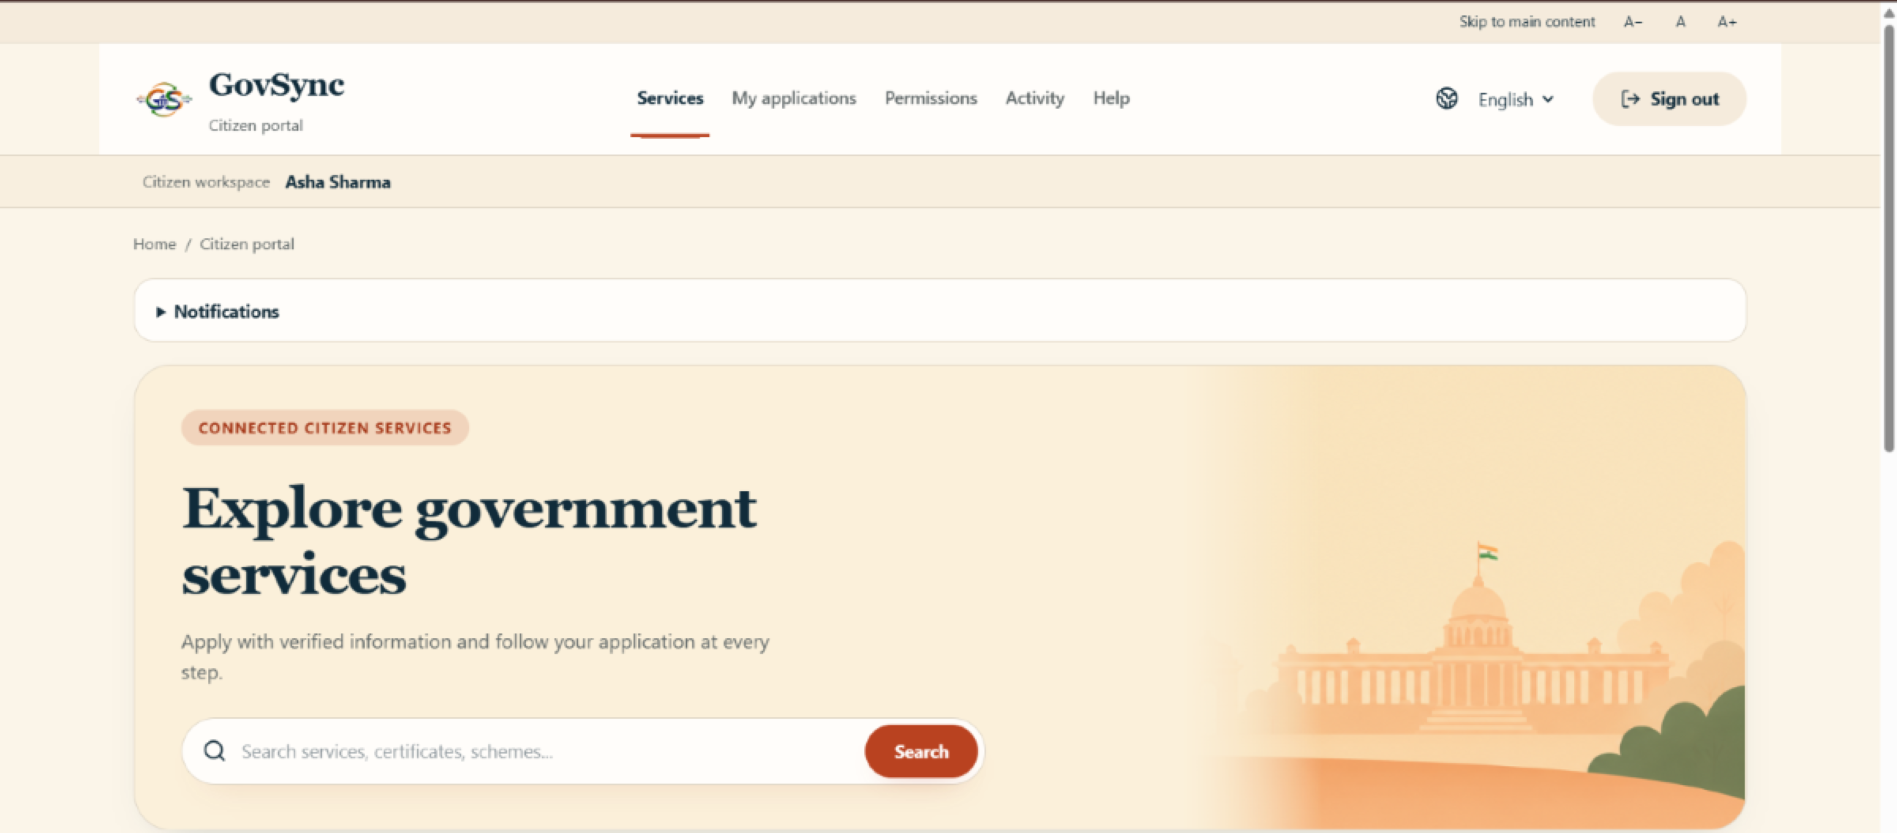
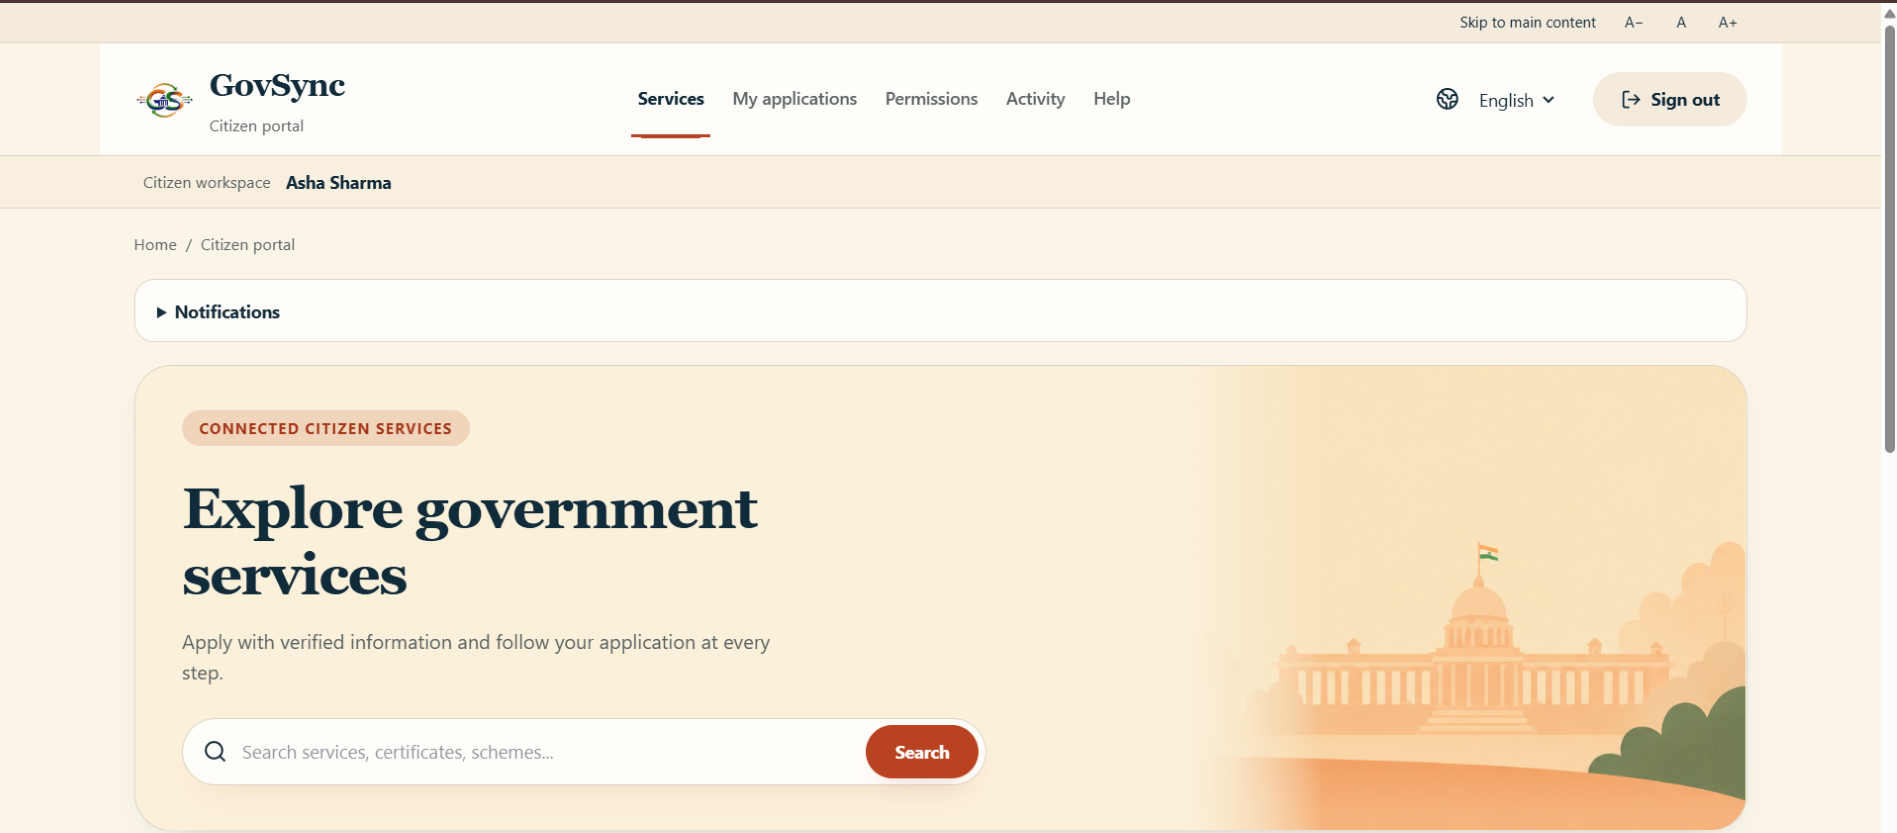
update 2nd project

diff --git a/02_project/Portfolio/public/landing-pages/kage.html b/02_project/Portfolio/public/landing-pages/kage.html
@@ -1361,7 +1361,7 @@ body[data-layout-footer="b"] .foot-base span:last-child{ text-align:right; }
     @media (max-width:560px) { .hero-side { display:none; } .portfolio-projects { grid-template-columns:1fr; } .brand-tx b { font-size:10px; letter-spacing:.15em; } }
   `;
   document.head.append(style);
-})({"name":"Aryan Maurya","wordmark":"ARYAN","title":"Computer Engineering student","studyYear":"Second year","college":"Atharva College of Engineering","branch":"Computer Engineering","heroLabel":"Second-year Computer Engineering student at Atharva College of Engineering","headline":["Engineer","in the","making."],"aboutHeading":"A curious mind. A world to build.","about":"I'm Aryan Maurya, a second-year Computer Engineering student at Atharva College of Engineering, interested in web development and cybersecurity.","aboutDetail":"I work with HTML, CSS and JavaScript, and I’m learning Python fundamentals through loops. This is a space for my learning, ideas and the projects I’ll share along the way.","facts":[{"value":"02","label":"Year of study"},{"value":"Web","label":"Development"},{"value":"Python","label":"Learning"},{"value":"Security","label":"An interest"}],"interests":[{"name":"Web development","tag":"BUILD","caption":"Interfaces, interactions and the web"},{"name":"Cybersecurity","tag":"EXPLORE","caption":"Curious about how systems stay secure"},{"name":"Python","tag":"LEARN","caption":"Building foundations, one loop at a time"}],"skillsHeading":"The tools. The practice. The next step.","skillsIntro":"My foundation is in HTML, CSS and JavaScript. I’m learning Python and exploring an interest in cybersecurity. There’s always more to understand.","skills":[{"name":"HTML","tag":"01","description":"The structure behind the pages I build.","status":"Build with"},{"name":"CSS","tag":"02","description":"Bringing layout, visual style and responsive pages together.","status":"Build with"},{"name":"JavaScript","tag":"03","description":"Adding logic and interaction to the web.","status":"Build with"},{"name":"Python","tag":"04","description":"Learning the fundamentals, currently through loops.","status":"Learning"},{"name":"Cybersecurity","tag":"05","description":"An area I’m interested in exploring as I learn more about computing.","status":"Interested in"}],"projectsHeading":"Selected work.","emptyProjectsHeading":"Work, in progress.","emptyProjectsMessage":"I’ll share my projects here as this portfolio grows. For now, find me on GitHub and follow along.","projects":[{"title":"Portfolio Website","description":"An interactive, game-style portfolio built with HTML, CSS and JavaScript. Visitors scroll through \"levels\" (About, Skills, Education, Personal Details, Contact) while an animated pixel-art character runs along the page, turning a traditional resume into a playable experience.","stack":["HTML","CSS","JavaScript"],"image":"/projects/SS-port.png","imageAlt":"A screenshot of my project homepage","liveUrl":"https://aryanmauryahere.github.io/Portfolio_website/","githubUrl":"https://github.com/AryanMauryahere/Portfolio_website"},{"title":"GocSync","description":"An interoperability government project that allows users to sync their data across multiple platforms. Built with React and Node.js, it connects different systems and enables seamless data exchange, through APIs.","stack":["TypeScript","Tailwind CSS","vite","React","Node.js","APIs"],"image":"/projects/GovSync-SS.png","imageAlt":"A screenshot of my project homepage","liveUrl":"https://govsync.govsync.workers.dev/","githubUrl":"https://github.com/AryanMauryahere/GovSync"}],"contactMessage":"Interested in web development, cybersecurity or learning together? Find me on LinkedIn, or explore my GitHub profile below.","links":{"github":"https://github.com/AryanMauryahere","linkedin":"https://www.linkedin.com/in/aryan-maurya-96999734b","email":"","resume":""}});
+})({"name":"Aryan Maurya","wordmark":"ARYAN","title":"Computer Engineering student","studyYear":"Second year","college":"Atharva College of Engineering","branch":"Computer Engineering","heroLabel":"Second-year Computer Engineering student at Atharva College of Engineering","headline":["Engineer","in the","making."],"aboutHeading":"A curious mind. A world to build.","about":"I'm Aryan Maurya, a second-year Computer Engineering student at Atharva College of Engineering, interested in web development and cybersecurity.","aboutDetail":"I work with HTML, CSS and JavaScript, and I’m learning Python fundamentals through loops. This is a space for my learning, ideas and the projects I’ll share along the way.","facts":[{"value":"02","label":"Year of study"},{"value":"Web","label":"Development"},{"value":"Python","label":"Learning"},{"value":"Security","label":"An interest"}],"interests":[{"name":"Web development","tag":"BUILD","caption":"Interfaces, interactions and the web"},{"name":"Cybersecurity","tag":"EXPLORE","caption":"Curious about how systems stay secure"},{"name":"Python","tag":"LEARN","caption":"Building foundations, one loop at a time"}],"skillsHeading":"The tools. The practice. The next step.","skillsIntro":"My foundation is in HTML, CSS and JavaScript. I’m learning Python and exploring an interest in cybersecurity. There’s always more to understand.","skills":[{"name":"HTML","tag":"01","description":"The structure behind the pages I build.","status":"Build with"},{"name":"CSS","tag":"02","description":"Bringing layout, visual style and responsive pages together.","status":"Build with"},{"name":"JavaScript","tag":"03","description":"Adding logic and interaction to the web.","status":"Build with"},{"name":"Python","tag":"04","description":"Learning the fundamentals, currently through loops.","status":"Learning"},{"name":"Cybersecurity","tag":"05","description":"An area I’m interested in exploring as I learn more about computing.","status":"Interested in"}],"projectsHeading":"Selected work.","emptyProjectsHeading":"Work, in progress.","emptyProjectsMessage":"I’ll share my projects here as this portfolio grows. For now, find me on GitHub and follow along.","projects":[{"title":"Portfolio Website","description":"An interactive, game-style portfolio built with HTML, CSS and JavaScript. Visitors scroll through \"levels\" (About, Skills, Education, Personal Details, Contact) while an animated pixel-art character runs along the page, turning a traditional resume into a playable experience.","stack":["HTML","CSS","JavaScript"],"image":"/projects/SS-port.png","imageAlt":"A screenshot of my project homepage","liveUrl":"https://aryanmauryahere.github.io/Portfolio_website/","githubUrl":"https://github.com/AryanMauryahere/Portfolio_website"},{"title":"GocSync","description":"An interoperability government project that allows users to sync their data across multiple platforms. Built with React and Node.js, it connects different systems and enables seamless data exchange, through APIs.","stack":["TypeScript","Tailwind CSS","vite","React","Node.js","APIs"],"image":"/projects/Govsync-ss.png","imageAlt":"A screenshot of my project homepage","liveUrl":"https://govsync.govsync.workers.dev/","githubUrl":"https://github.com/AryanMauryahere/GovSync"}],"contactMessage":"Interested in web development, cybersecurity or learning together? Find me on LinkedIn, or explore my GitHub profile below.","links":{"github":"https://github.com/AryanMauryahere","linkedin":"https://www.linkedin.com/in/aryan-maurya-96999734b","email":"","resume":""}});
 </script>
 <script src="secret-pathways-assets/three.min.js"></script>
 <script>

diff --git a/02_project/Portfolio/src/content.js b/02_project/Portfolio/src/content.js
@@ -44,11 +44,12 @@ export const portfolio = {
     liveUrl: 'https://aryanmauryahere.github.io/Portfolio_website/',
     githubUrl: 'https://github.com/AryanMauryahere/Portfolio_website',
   },
+  
   {
     title: 'GocSync',
     description: 'An interoperability government project that allows users to sync their data across multiple platforms. Built with React and Node.js, it connects different systems and enables seamless data exchange, through APIs.',
     stack: ['TypeScript', 'Tailwind CSS', 'vite',  'React', 'Node.js', 'APIs'],
-    image: '/projects/GovSync-SS.png',
+    image: '/projects/Govsync-ss.png',
     imageAlt: 'A screenshot of my project homepage',
     liveUrl: 'https://govsync.govsync.workers.dev/',
     githubUrl: 'https://github.com/AryanMauryahere/GovSync',
